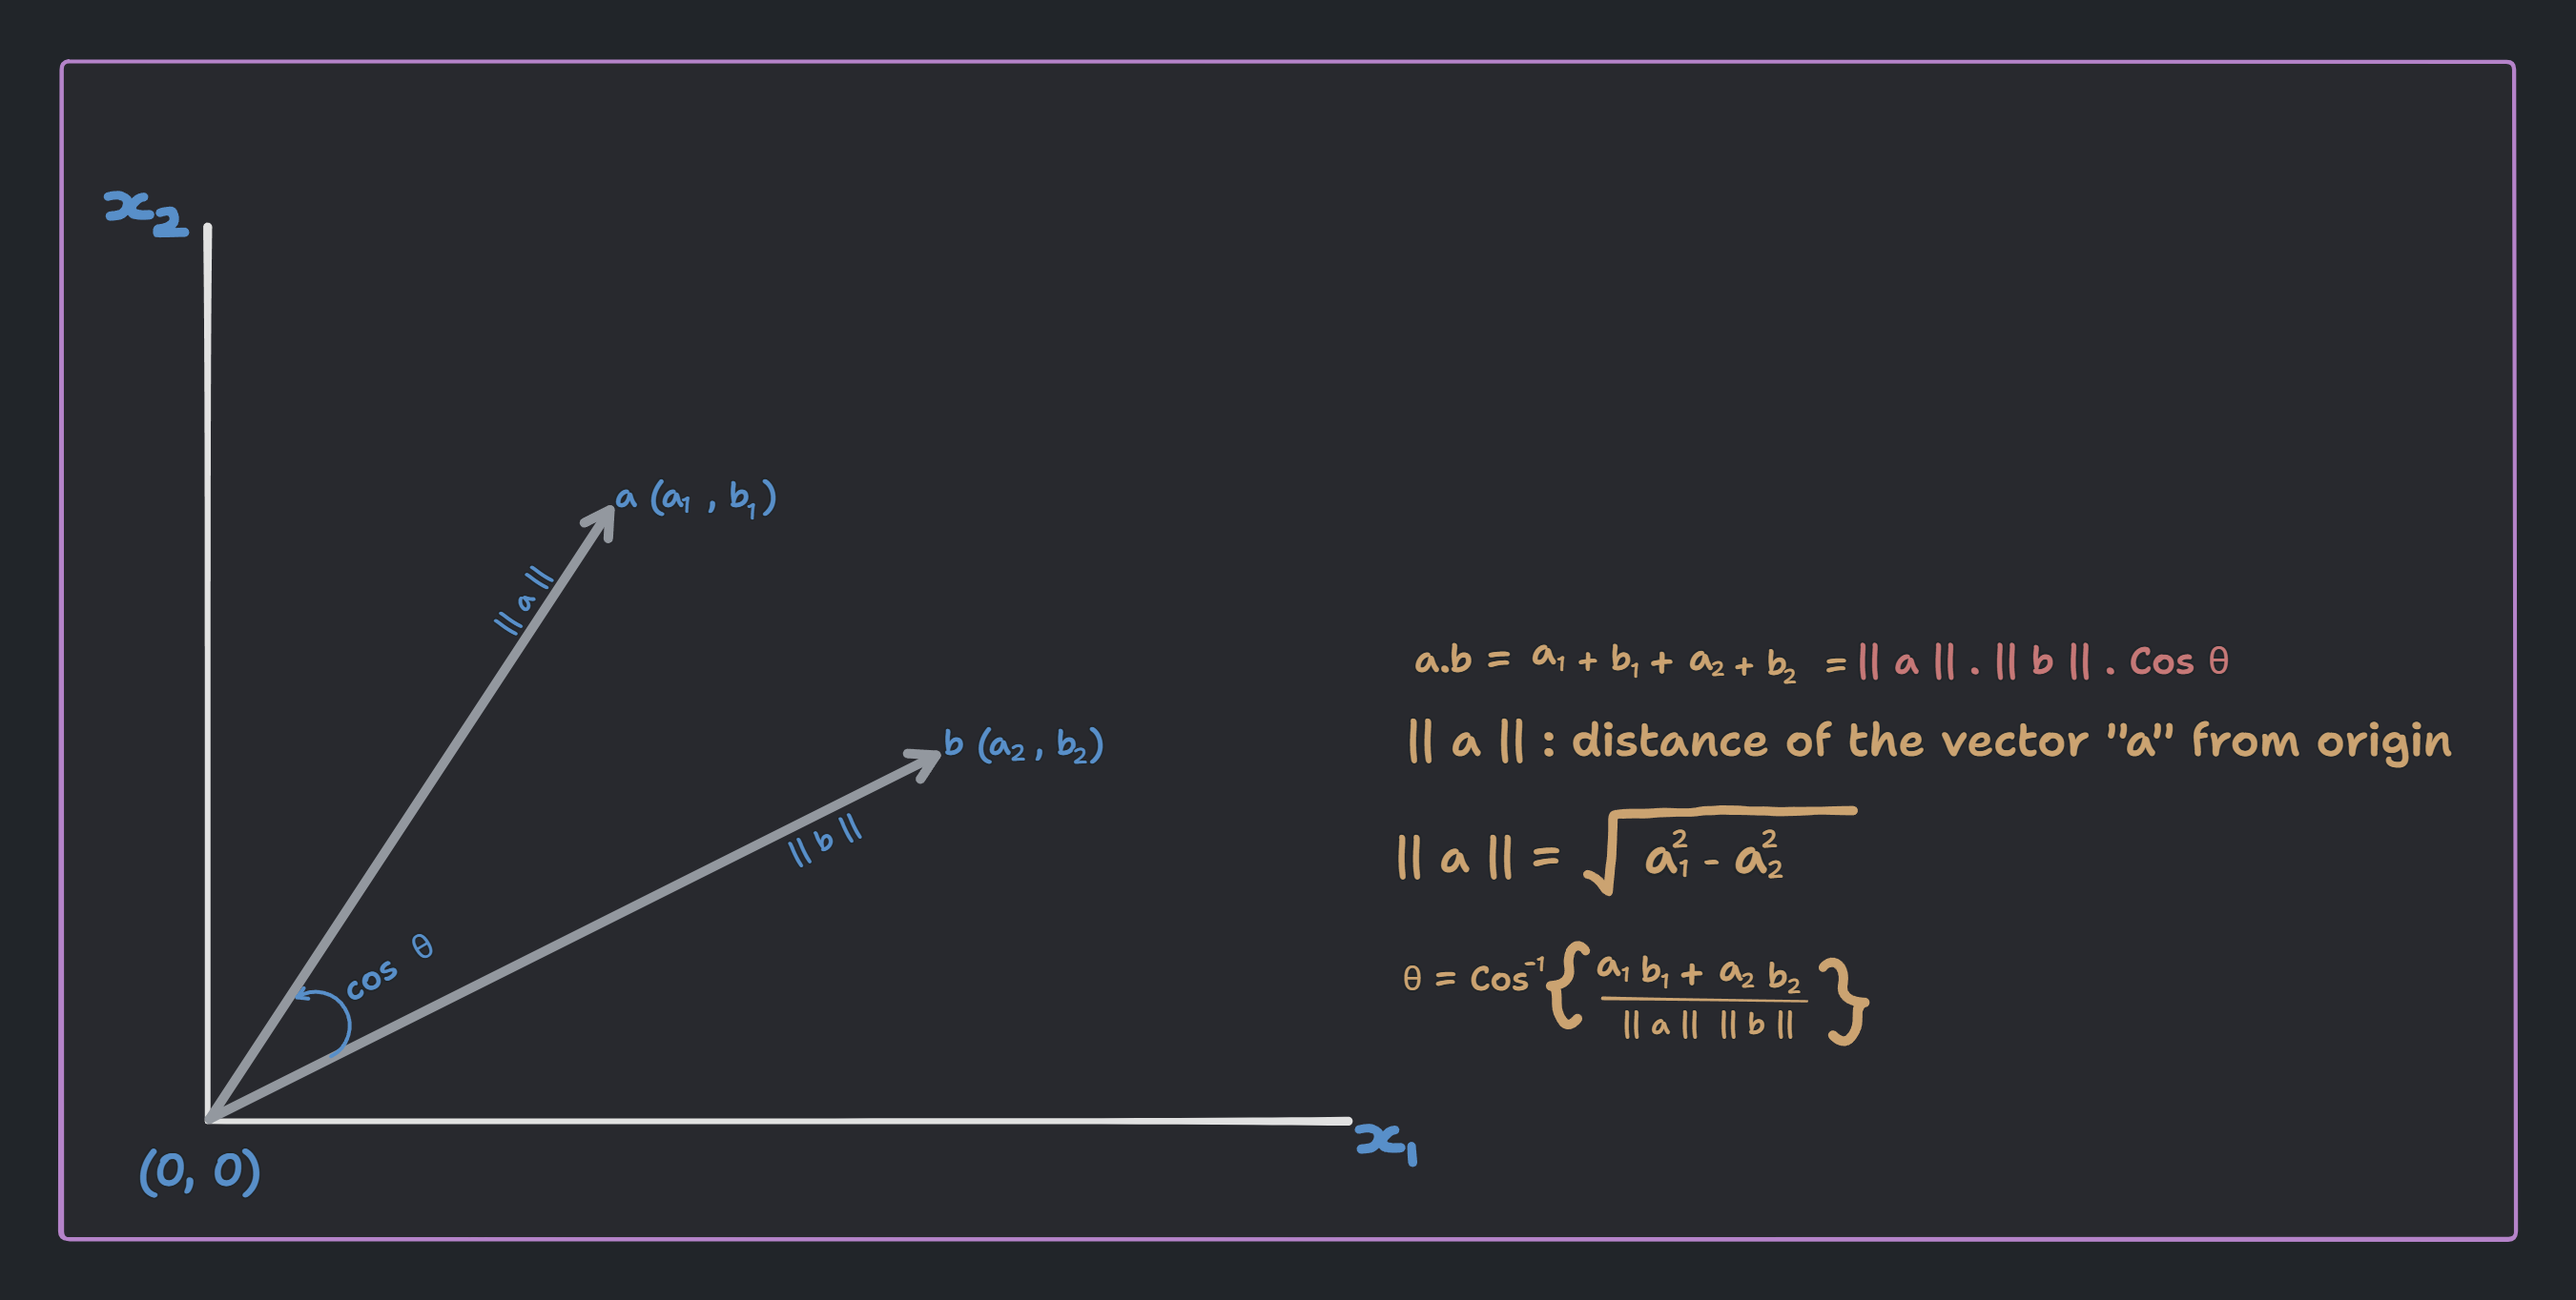
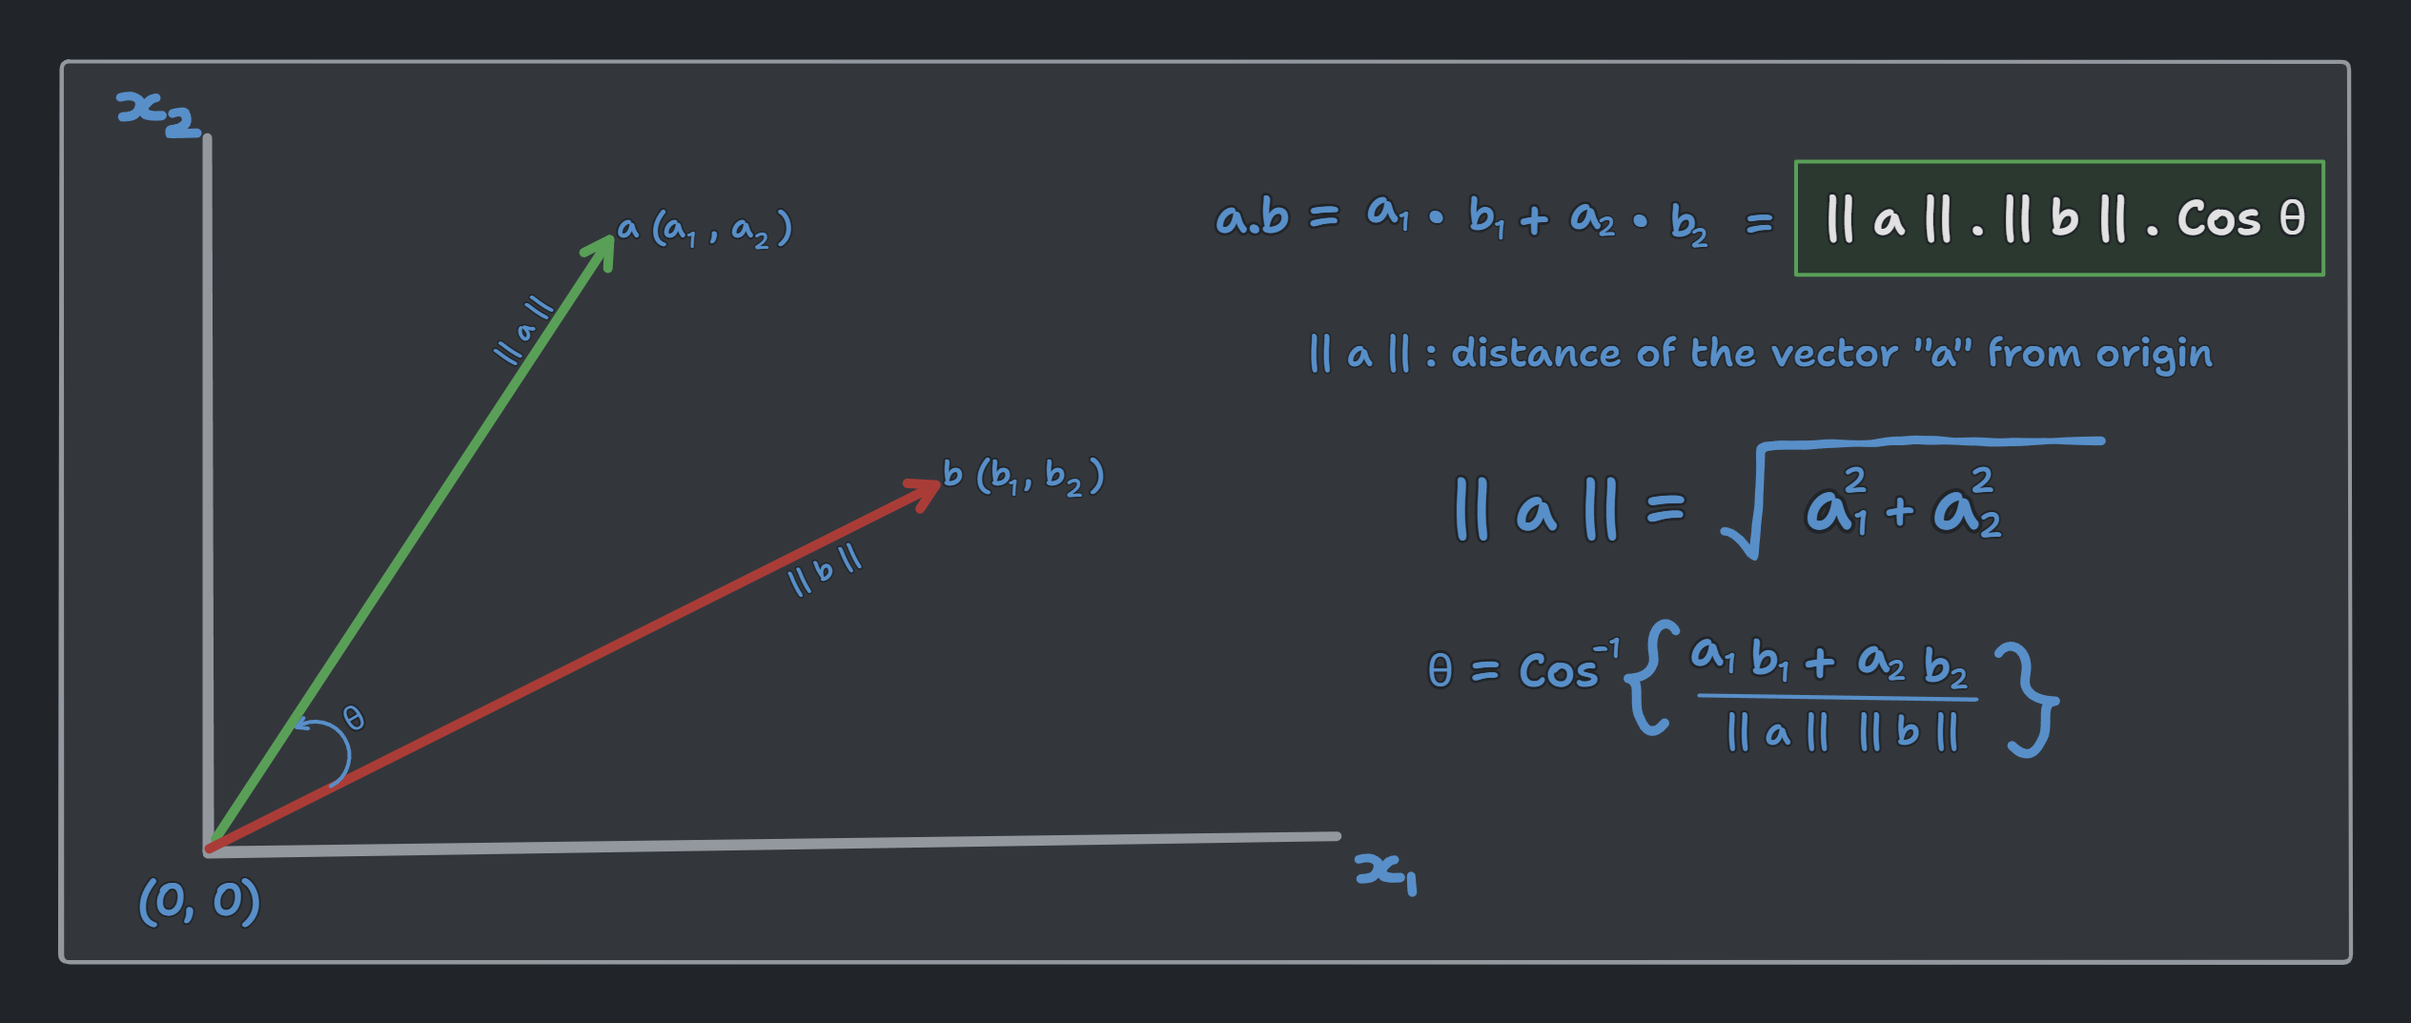
Updated content

diff --git a/05. Data_Science-I/Linear_algebra.md b/05. Data_Science-I/Linear_algebra.md
@@ -4,11 +4,13 @@ Linear algebra is the branch of mathematics that deals with linear equations and
 
 ## Points/Vectors
 
-A point/Vector is a collection of numbers which is often used to describe the state of a system.
+A point/Vector is a collection of numbers which is often used to describe the state of a system. 
 
 ![Point or vector](./img/Point_vector.png)
 
 Similarly we can represent an `n-dimensional` vector as $[x_1, x_2, x_3, ..., x_n]$ when the length of the vector is `n` and $x_i$ is a component of the vector.
+
+> vectors are typically defined in spaces of two dimensions or more. When it comes to one dimensional space we call it a scalar.
 
 - **Distance between origin `o(0, 0)` and a point `p(a, b)`in a 2D plane** : **$d = \sqrt{a^2+b^2}$**
 
@@ -32,11 +34,13 @@ A row vector is a vector that has a single row and multiple columns. Similarly, 
 
 ![Row and column vector](./img/Row_col_vectors.png)
 
-- **Row vector** : $[x_1, x_2, x_3, ..., x_n]$ **Column vector** : $\begin{bmatrix} x_1 \\ x_2 \\ x_3 \\ ... \\ x_n \end{bmatrix}$
+- **Row vector** : $[x_1, x_2, x_3, ..., x_n]$ 
+
+- **Column vector** : $\begin{bmatrix} x_1 \\ x_2 \\ x_3 \\ ... \\ x_n \end{bmatrix}$
 
 ## Dot product of two vectors
 
-The dot product of two vectors is a scalar quantity that is equal to the sum of the products of the corresponding entries of the two vectors.
+The dot product of two vectors is a _scalar_ quantity that is equal to the sum of the products of the corresponding entries of the two vectors.
 
 
 
@@ -47,14 +51,11 @@ which can be written as;
 $$[a_1, a_2, a_3, ..., a_n] \; . \; \begin{bmatrix} b_1 \\ b_2 \\ b_3 \\ ... \\ b_n \end{bmatrix}$$
 
 
-
 $$\implies a.b = a^T.b$$
 
 $$\implies a \cdot b = \sum_{i=1}^{n}a_ib_i$$
 
 where a = $[a_1, a_2, a_3, ..., a_n]$ and b = $[b_1, b_2, b_3, ..., b_n]$ are two vectors.
-
-> **Note** : The dot product of two vectors is a scalar quantity. We can interchange a row vector and a column vector by taking the `transpose of the vector`. The transpose of a row vector is a column vector and vice versa.
 
 Now let us see this what $a.b$ means geometrically.
 
@@ -103,6 +104,8 @@ Now when we want to translate the idea of a line to a `3-Dimensional` space, we 
 
 $$w_{1}x_1 + w_2x_2 + w_3x_3 + w_0 = 0$$
 
+> It's better to write the expression like this as in the previous one we will eventually run out of alphabets.
+
 Now when we want to translate the idea of a line to a `n-Dimensional` space, we actually having something known as a `hyperplane`. A hyperplane is a collection of points that satisfy the equation $\color{#FF9900} a_1x_1 + a_2x_2 + a_3x_3 + ... + a_nx_n + b = 0$ where $a_1$, $a_2$, $a_3$, ..., $a_n$ are the coefficients of $x_1$, $x_2$, $x_3$, ..., $x_n$ respectively and $b$ is a constant. In terms of of our previous equation we can define a hyperplane in a n-Dimensional plane as;
 
 $$w_{0}x_0 + w_{1}x_1 + w_2x_2 + w_3x_3 + ... + w_nx_n + w_0 = 0$$
@@ -122,10 +125,59 @@ where $w = [w_0, w_1, w_2, w_3, ..., w_n]$ and $x = [x_0, x_1, x_2, x_3, ..., x_
 Equation of a line passing through origin is $\color{#FF9900}w^Tx = 0$
 > we can drop the $w_0$ term as it is zero (because since the line is passing through origin, the y-intercept is zero).
 
----
----
----
+## Distance of a point from a plane
 
+![Distance of a point from a plane](./img/point_plane.png)
+
+Let us consider a plane $\pi_n$ that passes through origin and an `n-dimensional` point $p$. The distance between the point $p$ and the plane $\pi_n$ is given by;
+
+$$d = \frac{w^Tp}{||w||}$$
+
+where $w$ is the normal vector to the plane $\pi_n$ and $||w||$ is the magnitude of the vector $w$.
+
+Similarly we can find the distance between the plane and the point $p^{'}$ as;
+
+$$d^{'} = \frac{w^Tp^{'}}{||w||}$$
+
+> In the above diagram $\color{#FF9900}d$ is positive as the angle between the $\color{#FF9900}w$ and $\color{#FF9900}p$ is less than $\color{#FF9900}90^{\circ}$ and $\color{#FF9900}d^{'}$ is negative as the angle between the $w$ and $\color{#FF9900}p^{'}$ is greater than $\color{#FF9900}90^{\circ}$.
+
+When we want to compute the distance between the point and the plain, we take the absolute value of the distance, as negative distance does not make sense. At the same time, the sign of the distance is important as it tells us on which side of the plane (half-space) the point lies. So, when we need to determine whether something lies on which half-space, we can use the above idea.
+
+## Circle
+
+A circle is a collection of points that satisfy the equation $\color{#FF9900} (x)^2 + (y)^2 = r^2$ where $\color{#FF9900}r$ is the radius of the circle and it's center is at the origin $(0, 0)$. The general equation of a circle with center $(h, k)$ and radius $r$ is given by;
+
+$$(x - h)^2 + (y - k)^2 = r^2$$
+
+Given a point $p(x_1, x_2)$, we can determine whether that point lies inside the circle, on the circle, or outside the circle.
+
+- If $x_1^2 + x_2^2 < r^2$, the point lies inside the circle.
+
+- If $x_1^2 + x_2^2 = r^2$, the point lies on the circle.
+
+- If $x_1^2 + x_2^2 > r^2$, the point lies outside the circle.
+
+In `3D`, we have **sphere** instead of circle. The general equation for a circle with center $(h, k, l)$ and radius $r$ is given by;
+
+$$(x_1 - h)^2 + (x_2 - k)^2 + (x_3 - l)^2 = r^2$$
+
+A higher dimensional sphere or a **Hypersphere** is defined as;
+
+$$(x_1 - h)^2 + (x_2 - k)^2 + (x_3 - l)^2 + ... + (x_n - m)^2 = r^2$$
+
+If the center of the hypersphere is at the origin, then the equation of the hypersphere is given by;
+
+$$x_1^2 + x_2^2 + x_3^2 + ... + x_n^2 = r^2 \implies \sum_{i=0}^{n}x_i^2 = r^2$$
+
+The same idea of a point inside a circle or not using the equation of a circle can be extended to higher dimensions. This again is pretty powerful as we can use this idea to determine whether a point lies inside a hyper-sphere or not.
+
+
+
+---
+---
+---
+---
+---
 ## System of linear equations
 
 A system of linear equations is a collection of linear equations involving the same set of variables. For example; 
